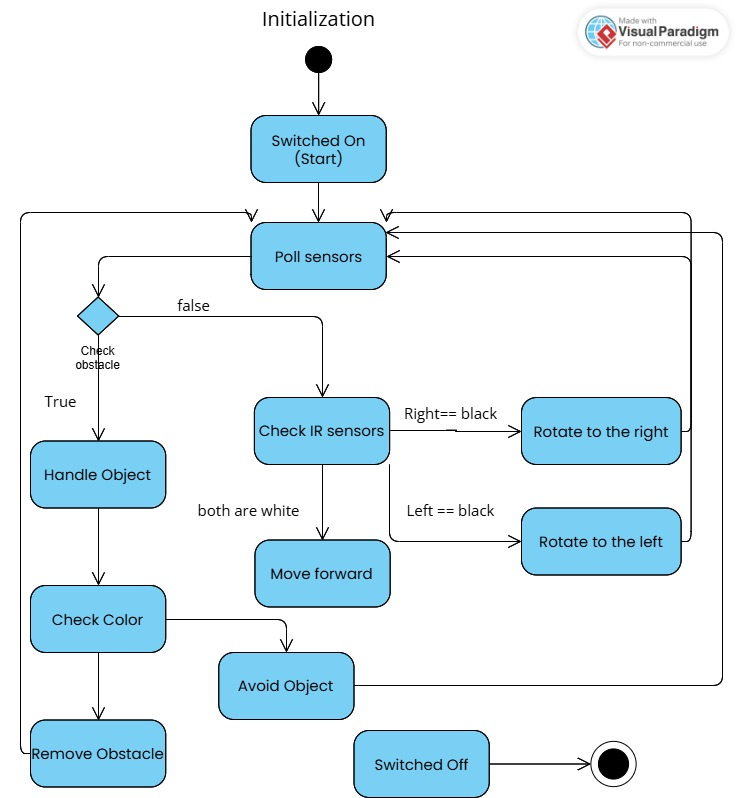
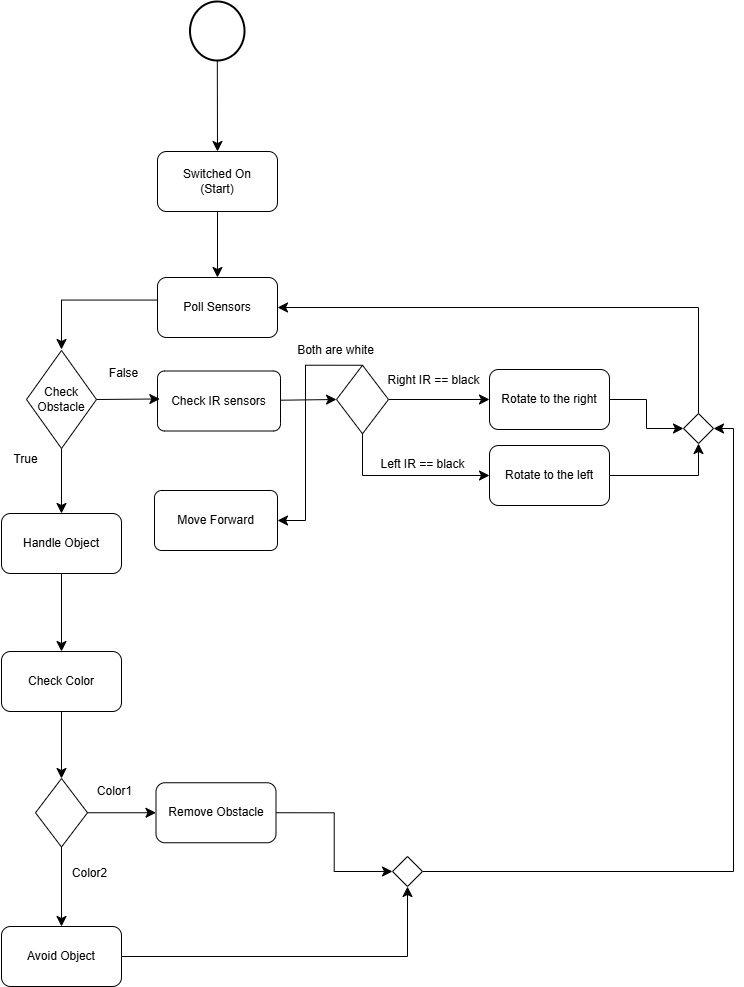
Fixed the Activity Diagram and added the HTML code for it
Addded decision nodes when needed and merge nodes. checked the logic and ease of diagram comprehension

diff --git a/SysML Diagrams/Code/Activity Diagram.drawio.html b/SysML Diagrams/Code/Activity Diagram.drawio.html
@@ -1,0 +1,12 @@
+<!--[if IE]><meta http-equiv="X-UA-Compatible" content="IE=5,IE=9" ><![endif]-->
+<!DOCTYPE html>
+<html>
+<head>
+<title>Activity Diagram.drawio (2).html</title>
+<meta charset="utf-8"/>
+</head>
+<body>
+<div class="mxgraph" style="max-width:100%;border:1px solid transparent;" data-mxgraph="{&quot;highlight&quot;:&quot;#0000ff&quot;,&quot;nav&quot;:true,&quot;resize&quot;:true,&quot;xml&quot;:&quot;&lt;mxfile host=\&quot;app.diagrams.net\&quot; agent=\&quot;Mozilla/5.0 (Windows NT 10.0; Win64; x64) AppleWebKit/537.36 (KHTML, like Gecko) Chrome/135.0.0.0 Safari/537.36\&quot; version=\&quot;26.2.14\&quot;&gt;&lt;diagram id=\&quot;Lv8YVn-NmGNcI8yFGcv0\&quot; name=\&quot;Page-2\&quot;&gt;&lt;mxGraphModel dx=\&quot;2081\&quot; dy=\&quot;1379\&quot; grid=\&quot;0\&quot; gridSize=\&quot;10\&quot; guides=\&quot;1\&quot; tooltips=\&quot;1\&quot; connect=\&quot;1\&quot; arrows=\&quot;1\&quot; fold=\&quot;1\&quot; page=\&quot;0\&quot; pageScale=\&quot;1\&quot; pageWidth=\&quot;850\&quot; pageHeight=\&quot;1100\&quot; math=\&quot;0\&quot; shadow=\&quot;0\&quot;&gt;&lt;root&gt;&lt;mxCell id=\&quot;0\&quot;/&gt;&lt;mxCell id=\&quot;1\&quot; parent=\&quot;0\&quot;/&gt;&lt;mxCell id=\&quot;UHTprHEIaRCcF_CRAUyR-3\&quot; style=\&quot;edgeStyle=none;curved=1;rounded=0;orthogonalLoop=1;jettySize=auto;html=1;entryX=0.5;entryY=0;entryDx=0;entryDy=0;fontSize=12;startSize=8;endSize=8;\&quot; parent=\&quot;1\&quot; source=\&quot;UHTprHEIaRCcF_CRAUyR-1\&quot; target=\&quot;UHTprHEIaRCcF_CRAUyR-2\&quot; edge=\&quot;1\&quot;&gt;&lt;mxGeometry relative=\&quot;1\&quot; as=\&quot;geometry\&quot;/&gt;&lt;/mxCell&gt;&lt;mxCell id=\&quot;UHTprHEIaRCcF_CRAUyR-1\&quot; value=\&quot;\&quot; style=\&quot;strokeWidth=2;html=1;shape=mxgraph.flowchart.start_2;whiteSpace=wrap;\&quot; parent=\&quot;1\&quot; vertex=\&quot;1\&quot;&gt;&lt;mxGeometry x=\&quot;200.5\&quot; y=\&quot;-275\&quot; width=\&quot;54.5\&quot; height=\&quot;59\&quot; as=\&quot;geometry\&quot;/&gt;&lt;/mxCell&gt;&lt;mxCell id=\&quot;UHTprHEIaRCcF_CRAUyR-6\&quot; style=\&quot;edgeStyle=none;curved=1;rounded=0;orthogonalLoop=1;jettySize=auto;html=1;entryX=0.5;entryY=0;entryDx=0;entryDy=0;fontSize=12;startSize=8;endSize=8;\&quot; parent=\&quot;1\&quot; source=\&quot;UHTprHEIaRCcF_CRAUyR-2\&quot; target=\&quot;UHTprHEIaRCcF_CRAUyR-5\&quot; edge=\&quot;1\&quot;&gt;&lt;mxGeometry relative=\&quot;1\&quot; as=\&quot;geometry\&quot;/&gt;&lt;/mxCell&gt;&lt;mxCell id=\&quot;UHTprHEIaRCcF_CRAUyR-2\&quot; value=\&quot;Switched On&amp;lt;br&amp;gt;(Start)\&quot; style=\&quot;rounded=1;whiteSpace=wrap;html=1;\&quot; parent=\&quot;1\&quot; vertex=\&quot;1\&quot;&gt;&lt;mxGeometry x=\&quot;168\&quot; y=\&quot;-125\&quot; width=\&quot;120\&quot; height=\&quot;60\&quot; as=\&quot;geometry\&quot;/&gt;&lt;/mxCell&gt;&lt;mxCell id=\&quot;UHTprHEIaRCcF_CRAUyR-5\&quot; value=\&quot;Poll Sensors\&quot; style=\&quot;rounded=1;whiteSpace=wrap;html=1;\&quot; parent=\&quot;1\&quot; vertex=\&quot;1\&quot;&gt;&lt;mxGeometry x=\&quot;168\&quot; y=\&quot;1\&quot; width=\&quot;120\&quot; height=\&quot;60\&quot; as=\&quot;geometry\&quot;/&gt;&lt;/mxCell&gt;&lt;mxCell id=\&quot;UHTprHEIaRCcF_CRAUyR-25\&quot; style=\&quot;edgeStyle=none;curved=1;rounded=0;orthogonalLoop=1;jettySize=auto;html=1;exitX=0.5;exitY=1;exitDx=0;exitDy=0;fontSize=12;startSize=8;endSize=8;\&quot; parent=\&quot;1\&quot; source=\&quot;UHTprHEIaRCcF_CRAUyR-28\&quot; edge=\&quot;1\&quot;&gt;&lt;mxGeometry relative=\&quot;1\&quot; as=\&quot;geometry\&quot;&gt;&lt;mxPoint x=\&quot;72.23809523809518\&quot; y=\&quot;282.95238095238096\&quot; as=\&quot;targetPoint\&quot;/&gt;&lt;/mxGeometry&gt;&lt;/mxCell&gt;&lt;mxCell id=\&quot;UHTprHEIaRCcF_CRAUyR-8\&quot; value=\&quot;Check Obstacle\&quot; style=\&quot;rhombus;whiteSpace=wrap;html=1;\&quot; parent=\&quot;1\&quot; vertex=\&quot;1\&quot;&gt;&lt;mxGeometry x=\&quot;37\&quot; y=\&quot;74\&quot; width=\&quot;70\&quot; height=\&quot;98\&quot; as=\&quot;geometry\&quot;/&gt;&lt;/mxCell&gt;&lt;mxCell id=\&quot;UHTprHEIaRCcF_CRAUyR-21\&quot; value=\&quot;\&quot; style=\&quot;edgeStyle=segmentEdgeStyle;endArrow=classic;html=1;curved=0;rounded=0;endSize=8;startSize=8;fontSize=12;exitX=0.004;exitY=0.376;exitDx=0;exitDy=0;exitPerimeter=0;\&quot; parent=\&quot;1\&quot; source=\&quot;UHTprHEIaRCcF_CRAUyR-5\&quot; edge=\&quot;1\&quot;&gt;&lt;mxGeometry width=\&quot;50\&quot; height=\&quot;50\&quot; relative=\&quot;1\&quot; as=\&quot;geometry\&quot;&gt;&lt;mxPoint x=\&quot;122\&quot; y=\&quot;23\&quot; as=\&quot;sourcePoint\&quot;/&gt;&lt;mxPoint x=\&quot;72\&quot; y=\&quot;73\&quot; as=\&quot;targetPoint\&quot;/&gt;&lt;/mxGeometry&gt;&lt;/mxCell&gt;&lt;mxCell id=\&quot;UHTprHEIaRCcF_CRAUyR-26\&quot; value=\&quot;False\&quot; style=\&quot;text;html=1;align=center;verticalAlign=middle;resizable=0;points=[];autosize=1;strokeColor=none;fillColor=none;fontSize=12;\&quot; parent=\&quot;1\&quot; vertex=\&quot;1\&quot;&gt;&lt;mxGeometry x=\&quot;105\&quot; y=\&quot;81\&quot; width=\&quot;57\&quot; height=\&quot;31\&quot; as=\&quot;geometry\&quot;/&gt;&lt;/mxCell&gt;&lt;mxCell id=\&quot;UHTprHEIaRCcF_CRAUyR-27\&quot; value=\&quot;True\&quot; style=\&quot;text;html=1;align=center;verticalAlign=middle;resizable=0;points=[];autosize=1;strokeColor=none;fillColor=none;fontSize=12;\&quot; parent=\&quot;1\&quot; vertex=\&quot;1\&quot;&gt;&lt;mxGeometry x=\&quot;11\&quot; y=\&quot;167\&quot; width=\&quot;50\&quot; height=\&quot;31\&quot; as=\&quot;geometry\&quot;/&gt;&lt;/mxCell&gt;&lt;mxCell id=\&quot;UHTprHEIaRCcF_CRAUyR-40\&quot; style=\&quot;edgeStyle=none;curved=1;rounded=0;orthogonalLoop=1;jettySize=auto;html=1;entryX=0;entryY=0.5;entryDx=0;entryDy=0;fontSize=12;startSize=8;endSize=8;\&quot; parent=\&quot;1\&quot; source=\&quot;UHTprHEIaRCcF_CRAUyR-29\&quot; target=\&quot;UHTprHEIaRCcF_CRAUyR-38\&quot; edge=\&quot;1\&quot;&gt;&lt;mxGeometry relative=\&quot;1\&quot; as=\&quot;geometry\&quot;/&gt;&lt;/mxCell&gt;&lt;mxCell id=\&quot;UHTprHEIaRCcF_CRAUyR-29\&quot; value=\&quot;Check IR sensors\&quot; style=\&quot;rounded=1;whiteSpace=wrap;html=1;arcSize=12;movable=1;resizable=1;rotatable=1;deletable=1;editable=1;locked=0;connectable=1;\&quot; parent=\&quot;1\&quot; vertex=\&quot;1\&quot;&gt;&lt;mxGeometry x=\&quot;168\&quot; y=\&quot;94.5\&quot; width=\&quot;123\&quot; height=\&quot;60\&quot; as=\&quot;geometry\&quot;/&gt;&lt;/mxCell&gt;&lt;mxCell id=\&quot;UHTprHEIaRCcF_CRAUyR-35\&quot; style=\&quot;edgeStyle=none;curved=1;rounded=0;orthogonalLoop=1;jettySize=auto;html=1;exitX=1;exitY=0.5;exitDx=0;exitDy=0;entryX=0.019;entryY=0.466;entryDx=0;entryDy=0;entryPerimeter=0;fontSize=12;startSize=8;endSize=8;\&quot; parent=\&quot;1\&quot; source=\&quot;UHTprHEIaRCcF_CRAUyR-8\&quot; target=\&quot;UHTprHEIaRCcF_CRAUyR-29\&quot; edge=\&quot;1\&quot;&gt;&lt;mxGeometry relative=\&quot;1\&quot; as=\&quot;geometry\&quot;/&gt;&lt;/mxCell&gt;&lt;mxCell id=\&quot;UHTprHEIaRCcF_CRAUyR-50\&quot; style=\&quot;edgeStyle=none;curved=1;rounded=0;orthogonalLoop=1;jettySize=auto;html=1;exitX=1;exitY=0.5;exitDx=0;exitDy=0;entryX=0;entryY=0.5;entryDx=0;entryDy=0;fontSize=12;startSize=8;endSize=8;\&quot; parent=\&quot;1\&quot; source=\&quot;UHTprHEIaRCcF_CRAUyR-38\&quot; target=\&quot;UHTprHEIaRCcF_CRAUyR-44\&quot; edge=\&quot;1\&quot;&gt;&lt;mxGeometry relative=\&quot;1\&quot; as=\&quot;geometry\&quot;/&gt;&lt;/mxCell&gt;&lt;mxCell id=\&quot;UHTprHEIaRCcF_CRAUyR-52\&quot; style=\&quot;edgeStyle=orthogonalEdgeStyle;rounded=0;orthogonalLoop=1;jettySize=auto;html=1;exitX=0.5;exitY=1;exitDx=0;exitDy=0;fontSize=12;startSize=8;endSize=8;entryX=0;entryY=0.5;entryDx=0;entryDy=0;\&quot; parent=\&quot;1\&quot; source=\&quot;UHTprHEIaRCcF_CRAUyR-38\&quot; target=\&quot;UHTprHEIaRCcF_CRAUyR-45\&quot; edge=\&quot;1\&quot;&gt;&lt;mxGeometry relative=\&quot;1\&quot; as=\&quot;geometry\&quot;&gt;&lt;mxPoint x=\&quot;373\&quot; y=\&quot;233.28571428571422\&quot; as=\&quot;targetPoint\&quot;/&gt;&lt;/mxGeometry&gt;&lt;/mxCell&gt;&lt;mxCell id=\&quot;UHTprHEIaRCcF_CRAUyR-62\&quot; style=\&quot;edgeStyle=orthogonalEdgeStyle;rounded=0;orthogonalLoop=1;jettySize=auto;html=1;fontSize=12;startSize=8;endSize=8;entryX=1;entryY=0.5;entryDx=0;entryDy=0;\&quot; parent=\&quot;1\&quot; target=\&quot;UHTprHEIaRCcF_CRAUyR-59\&quot; edge=\&quot;1\&quot;&gt;&lt;mxGeometry relative=\&quot;1\&quot; as=\&quot;geometry\&quot;&gt;&lt;mxPoint x=\&quot;313.96\&quot; y=\&quot;209.69\&quot; as=\&quot;targetPoint\&quot;/&gt;&lt;mxPoint x=\&quot;373.00337851929083\&quot; y=\&quot;88.74714285714282\&quot; as=\&quot;sourcePoint\&quot;/&gt;&lt;Array as=\&quot;points\&quot;&gt;&lt;mxPoint x=\&quot;316\&quot; y=\&quot;89\&quot;/&gt;&lt;mxPoint x=\&quot;316\&quot; y=\&quot;244\&quot;/&gt;&lt;/Array&gt;&lt;/mxGeometry&gt;&lt;/mxCell&gt;&lt;mxCell id=\&quot;UHTprHEIaRCcF_CRAUyR-38\&quot; value=\&quot;\&quot; style=\&quot;rhombus;whiteSpace=wrap;html=1;\&quot; parent=\&quot;1\&quot; vertex=\&quot;1\&quot;&gt;&lt;mxGeometry x=\&quot;347\&quot; y=\&quot;88.75\&quot; width=\&quot;52\&quot; height=\&quot;68.5\&quot; as=\&quot;geometry\&quot;/&gt;&lt;/mxCell&gt;&lt;mxCell id=\&quot;UHTprHEIaRCcF_CRAUyR-41\&quot; value=\&quot;Right IR == black\&quot; style=\&quot;text;html=1;align=center;verticalAlign=middle;resizable=0;points=[];autosize=1;strokeColor=none;fillColor=none;fontSize=12;\&quot; parent=\&quot;1\&quot; vertex=\&quot;1\&quot;&gt;&lt;mxGeometry x=\&quot;373\&quot; y=\&quot;88.75\&quot; width=\&quot;141\&quot; height=\&quot;31\&quot; as=\&quot;geometry\&quot;/&gt;&lt;/mxCell&gt;&lt;mxCell id=\&quot;UHTprHEIaRCcF_CRAUyR-91\&quot; style=\&quot;edgeStyle=orthogonalEdgeStyle;rounded=0;orthogonalLoop=1;jettySize=auto;html=1;exitX=1;exitY=0.5;exitDx=0;exitDy=0;fontSize=12;startSize=8;endSize=8;\&quot; parent=\&quot;1\&quot; source=\&quot;UHTprHEIaRCcF_CRAUyR-44\&quot; target=\&quot;UHTprHEIaRCcF_CRAUyR-89\&quot; edge=\&quot;1\&quot;&gt;&lt;mxGeometry relative=\&quot;1\&quot; as=\&quot;geometry\&quot;/&gt;&lt;/mxCell&gt;&lt;mxCell id=\&quot;UHTprHEIaRCcF_CRAUyR-44\&quot; value=\&quot;Rotate to the right\&quot; style=\&quot;rounded=1;whiteSpace=wrap;html=1;\&quot; parent=\&quot;1\&quot; vertex=\&quot;1\&quot;&gt;&lt;mxGeometry x=\&quot;500\&quot; y=\&quot;93\&quot; width=\&quot;120\&quot; height=\&quot;60\&quot; as=\&quot;geometry\&quot;/&gt;&lt;/mxCell&gt;&lt;mxCell id=\&quot;UHTprHEIaRCcF_CRAUyR-90\&quot; style=\&quot;edgeStyle=orthogonalEdgeStyle;rounded=0;orthogonalLoop=1;jettySize=auto;html=1;exitX=1;exitY=0.5;exitDx=0;exitDy=0;entryX=0.5;entryY=1;entryDx=0;entryDy=0;fontSize=12;startSize=8;endSize=8;\&quot; parent=\&quot;1\&quot; source=\&quot;UHTprHEIaRCcF_CRAUyR-45\&quot; target=\&quot;UHTprHEIaRCcF_CRAUyR-89\&quot; edge=\&quot;1\&quot;&gt;&lt;mxGeometry relative=\&quot;1\&quot; as=\&quot;geometry\&quot;/&gt;&lt;/mxCell&gt;&lt;mxCell id=\&quot;UHTprHEIaRCcF_CRAUyR-45\&quot; value=\&quot;Rotate to the left\&quot; style=\&quot;rounded=1;whiteSpace=wrap;html=1;\&quot; parent=\&quot;1\&quot; vertex=\&quot;1\&quot;&gt;&lt;mxGeometry x=\&quot;500\&quot; y=\&quot;169\&quot; width=\&quot;120\&quot; height=\&quot;60\&quot; as=\&quot;geometry\&quot;/&gt;&lt;/mxCell&gt;&lt;mxCell id=\&quot;UHTprHEIaRCcF_CRAUyR-46\&quot; style=\&quot;edgeStyle=none;curved=1;rounded=0;orthogonalLoop=1;jettySize=auto;html=1;exitX=0.75;exitY=1;exitDx=0;exitDy=0;fontSize=12;startSize=8;endSize=8;\&quot; parent=\&quot;1\&quot; source=\&quot;UHTprHEIaRCcF_CRAUyR-45\&quot; target=\&quot;UHTprHEIaRCcF_CRAUyR-45\&quot; edge=\&quot;1\&quot;&gt;&lt;mxGeometry relative=\&quot;1\&quot; as=\&quot;geometry\&quot;/&gt;&lt;/mxCell&gt;&lt;mxCell id=\&quot;UHTprHEIaRCcF_CRAUyR-53\&quot; value=\&quot;Left IR == black\&quot; style=\&quot;text;html=1;align=center;verticalAlign=middle;resizable=0;points=[];autosize=1;strokeColor=none;fillColor=none;fontSize=12;\&quot; parent=\&quot;1\&quot; vertex=\&quot;1\&quot;&gt;&lt;mxGeometry x=\&quot;382\&quot; y=\&quot;175\&quot; width=\&quot;102\&quot; height=\&quot;26\&quot; as=\&quot;geometry\&quot;/&gt;&lt;/mxCell&gt;&lt;mxCell id=\&quot;UHTprHEIaRCcF_CRAUyR-59\&quot; value=\&quot;Move Forward\&quot; style=\&quot;rounded=1;whiteSpace=wrap;html=1;arcSize=12;movable=1;resizable=1;rotatable=1;deletable=1;editable=1;locked=0;connectable=1;\&quot; parent=\&quot;1\&quot; vertex=\&quot;1\&quot;&gt;&lt;mxGeometry x=\&quot;165\&quot; y=\&quot;214\&quot; width=\&quot;123\&quot; height=\&quot;60\&quot; as=\&quot;geometry\&quot;/&gt;&lt;/mxCell&gt;&lt;mxCell id=\&quot;UHTprHEIaRCcF_CRAUyR-64\&quot; value=\&quot;Both are white\&quot; style=\&quot;text;html=1;align=center;verticalAlign=middle;resizable=0;points=[];autosize=1;strokeColor=none;fillColor=none;fontSize=12;\&quot; parent=\&quot;1\&quot; vertex=\&quot;1\&quot;&gt;&lt;mxGeometry x=\&quot;298\&quot; y=\&quot;61\&quot; width=\&quot;95\&quot; height=\&quot;26\&quot; as=\&quot;geometry\&quot;/&gt;&lt;/mxCell&gt;&lt;mxCell id=\&quot;UHTprHEIaRCcF_CRAUyR-65\&quot; value=\&quot;\&quot; style=\&quot;edgeStyle=none;curved=1;rounded=0;orthogonalLoop=1;jettySize=auto;html=1;exitX=0.5;exitY=1;exitDx=0;exitDy=0;fontSize=12;startSize=8;endSize=8;\&quot; parent=\&quot;1\&quot; source=\&quot;UHTprHEIaRCcF_CRAUyR-8\&quot; target=\&quot;UHTprHEIaRCcF_CRAUyR-28\&quot; edge=\&quot;1\&quot;&gt;&lt;mxGeometry relative=\&quot;1\&quot; as=\&quot;geometry\&quot;&gt;&lt;mxPoint x=\&quot;72.23809523809518\&quot; y=\&quot;282.95238095238096\&quot; as=\&quot;targetPoint\&quot;/&gt;&lt;mxPoint x=\&quot;72\&quot; y=\&quot;172\&quot; as=\&quot;sourcePoint\&quot;/&gt;&lt;/mxGeometry&gt;&lt;/mxCell&gt;&lt;mxCell id=\&quot;UHTprHEIaRCcF_CRAUyR-67\&quot; value=\&quot;\&quot; style=\&quot;edgeStyle=none;curved=1;rounded=0;orthogonalLoop=1;jettySize=auto;html=1;fontSize=12;startSize=8;endSize=8;\&quot; parent=\&quot;1\&quot; source=\&quot;UHTprHEIaRCcF_CRAUyR-28\&quot; target=\&quot;UHTprHEIaRCcF_CRAUyR-66\&quot; edge=\&quot;1\&quot;&gt;&lt;mxGeometry relative=\&quot;1\&quot; as=\&quot;geometry\&quot;/&gt;&lt;/mxCell&gt;&lt;mxCell id=\&quot;UHTprHEIaRCcF_CRAUyR-28\&quot; value=\&quot;Handle Object\&quot; style=\&quot;rounded=1;whiteSpace=wrap;html=1;\&quot; parent=\&quot;1\&quot; vertex=\&quot;1\&quot;&gt;&lt;mxGeometry x=\&quot;12\&quot; y=\&quot;237\&quot; width=\&quot;120\&quot; height=\&quot;60\&quot; as=\&quot;geometry\&quot;/&gt;&lt;/mxCell&gt;&lt;mxCell id=\&quot;UHTprHEIaRCcF_CRAUyR-72\&quot; style=\&quot;edgeStyle=none;curved=1;rounded=0;orthogonalLoop=1;jettySize=auto;html=1;exitX=0.5;exitY=1;exitDx=0;exitDy=0;entryX=0.5;entryY=0;entryDx=0;entryDy=0;fontSize=12;startSize=8;endSize=8;\&quot; parent=\&quot;1\&quot; source=\&quot;UHTprHEIaRCcF_CRAUyR-66\&quot; target=\&quot;UHTprHEIaRCcF_CRAUyR-70\&quot; edge=\&quot;1\&quot;&gt;&lt;mxGeometry relative=\&quot;1\&quot; as=\&quot;geometry\&quot;/&gt;&lt;/mxCell&gt;&lt;mxCell id=\&quot;UHTprHEIaRCcF_CRAUyR-66\&quot; value=\&quot;Check Color\&quot; style=\&quot;rounded=1;whiteSpace=wrap;html=1;\&quot; parent=\&quot;1\&quot; vertex=\&quot;1\&quot;&gt;&lt;mxGeometry x=\&quot;12\&quot; y=\&quot;375\&quot; width=\&quot;120\&quot; height=\&quot;60\&quot; as=\&quot;geometry\&quot;/&gt;&lt;/mxCell&gt;&lt;mxCell id=\&quot;UHTprHEIaRCcF_CRAUyR-98\&quot; style=\&quot;edgeStyle=none;curved=1;rounded=0;orthogonalLoop=1;jettySize=auto;html=1;entryX=0;entryY=0.5;entryDx=0;entryDy=0;fontSize=12;startSize=8;endSize=8;\&quot; parent=\&quot;1\&quot; source=\&quot;UHTprHEIaRCcF_CRAUyR-70\&quot; target=\&quot;UHTprHEIaRCcF_CRAUyR-97\&quot; edge=\&quot;1\&quot;&gt;&lt;mxGeometry relative=\&quot;1\&quot; as=\&quot;geometry\&quot;/&gt;&lt;/mxCell&gt;&lt;mxCell id=\&quot;UHTprHEIaRCcF_CRAUyR-100\&quot; style=\&quot;edgeStyle=none;curved=1;rounded=0;orthogonalLoop=1;jettySize=auto;html=1;exitX=0.5;exitY=1;exitDx=0;exitDy=0;fontSize=12;startSize=8;endSize=8;\&quot; parent=\&quot;1\&quot; source=\&quot;UHTprHEIaRCcF_CRAUyR-70\&quot; target=\&quot;UHTprHEIaRCcF_CRAUyR-74\&quot; edge=\&quot;1\&quot;&gt;&lt;mxGeometry relative=\&quot;1\&quot; as=\&quot;geometry\&quot;/&gt;&lt;/mxCell&gt;&lt;mxCell id=\&quot;UHTprHEIaRCcF_CRAUyR-70\&quot; value=\&quot;\&quot; style=\&quot;rhombus;whiteSpace=wrap;html=1;\&quot; parent=\&quot;1\&quot; vertex=\&quot;1\&quot;&gt;&lt;mxGeometry x=\&quot;46\&quot; y=\&quot;502\&quot; width=\&quot;52\&quot; height=\&quot;68.5\&quot; as=\&quot;geometry\&quot;/&gt;&lt;/mxCell&gt;&lt;mxCell id=\&quot;UHTprHEIaRCcF_CRAUyR-102\&quot; style=\&quot;edgeStyle=orthogonalEdgeStyle;rounded=0;orthogonalLoop=1;jettySize=auto;html=1;exitX=1;exitY=0.5;exitDx=0;exitDy=0;entryX=0.5;entryY=1;entryDx=0;entryDy=0;fontSize=12;startSize=8;endSize=8;\&quot; parent=\&quot;1\&quot; source=\&quot;UHTprHEIaRCcF_CRAUyR-74\&quot; target=\&quot;UHTprHEIaRCcF_CRAUyR-80\&quot; edge=\&quot;1\&quot;&gt;&lt;mxGeometry relative=\&quot;1\&quot; as=\&quot;geometry\&quot;/&gt;&lt;/mxCell&gt;&lt;mxCell id=\&quot;UHTprHEIaRCcF_CRAUyR-74\&quot; value=\&quot;Avoid Object\&quot; style=\&quot;rounded=1;whiteSpace=wrap;html=1;\&quot; parent=\&quot;1\&quot; vertex=\&quot;1\&quot;&gt;&lt;mxGeometry x=\&quot;12\&quot; y=\&quot;650\&quot; width=\&quot;120\&quot; height=\&quot;60\&quot; as=\&quot;geometry\&quot;/&gt;&lt;/mxCell&gt;&lt;mxCell id=\&quot;UHTprHEIaRCcF_CRAUyR-104\&quot; style=\&quot;edgeStyle=orthogonalEdgeStyle;rounded=0;orthogonalLoop=1;jettySize=auto;html=1;exitX=1;exitY=0.5;exitDx=0;exitDy=0;entryX=1;entryY=0.5;entryDx=0;entryDy=0;fontSize=12;startSize=8;endSize=8;\&quot; parent=\&quot;1\&quot; source=\&quot;UHTprHEIaRCcF_CRAUyR-80\&quot; target=\&quot;UHTprHEIaRCcF_CRAUyR-89\&quot; edge=\&quot;1\&quot;&gt;&lt;mxGeometry relative=\&quot;1\&quot; as=\&quot;geometry\&quot;/&gt;&lt;/mxCell&gt;&lt;mxCell id=\&quot;UHTprHEIaRCcF_CRAUyR-80\&quot; value=\&quot;\&quot; style=\&quot;rhombus;\&quot; parent=\&quot;1\&quot; vertex=\&quot;1\&quot;&gt;&lt;mxGeometry x=\&quot;403\&quot; y=\&quot;580\&quot; width=\&quot;30\&quot; height=\&quot;30\&quot; as=\&quot;geometry\&quot;/&gt;&lt;/mxCell&gt;&lt;mxCell id=\&quot;UHTprHEIaRCcF_CRAUyR-105\&quot; style=\&quot;edgeStyle=orthogonalEdgeStyle;rounded=0;orthogonalLoop=1;jettySize=auto;html=1;exitX=0.5;exitY=0;exitDx=0;exitDy=0;entryX=1;entryY=0.5;entryDx=0;entryDy=0;fontSize=12;startSize=8;endSize=8;\&quot; parent=\&quot;1\&quot; source=\&quot;UHTprHEIaRCcF_CRAUyR-89\&quot; target=\&quot;UHTprHEIaRCcF_CRAUyR-5\&quot; edge=\&quot;1\&quot;&gt;&lt;mxGeometry relative=\&quot;1\&quot; as=\&quot;geometry\&quot;/&gt;&lt;/mxCell&gt;&lt;mxCell id=\&quot;UHTprHEIaRCcF_CRAUyR-89\&quot; value=\&quot;\&quot; style=\&quot;rhombus;\&quot; parent=\&quot;1\&quot; vertex=\&quot;1\&quot;&gt;&lt;mxGeometry x=\&quot;694\&quot; y=\&quot;137\&quot; width=\&quot;30\&quot; height=\&quot;30\&quot; as=\&quot;geometry\&quot;/&gt;&lt;/mxCell&gt;&lt;mxCell id=\&quot;UHTprHEIaRCcF_CRAUyR-93\&quot; value=\&quot;Color1\&quot; style=\&quot;text;html=1;align=center;verticalAlign=middle;resizable=0;points=[];autosize=1;strokeColor=none;fillColor=none;fontSize=12;\&quot; parent=\&quot;1\&quot; vertex=\&quot;1\&quot;&gt;&lt;mxGeometry x=\&quot;98\&quot; y=\&quot;502\&quot; width=\&quot;53\&quot; height=\&quot;26\&quot; as=\&quot;geometry\&quot;/&gt;&lt;/mxCell&gt;&lt;mxCell id=\&quot;UHTprHEIaRCcF_CRAUyR-94\&quot; value=\&quot;Color2\&quot; style=\&quot;text;html=1;align=center;verticalAlign=middle;resizable=0;points=[];autosize=1;strokeColor=none;fillColor=none;fontSize=12;\&quot; parent=\&quot;1\&quot; vertex=\&quot;1\&quot;&gt;&lt;mxGeometry x=\&quot;73\&quot; y=\&quot;584\&quot; width=\&quot;53\&quot; height=\&quot;26\&quot; as=\&quot;geometry\&quot;/&gt;&lt;/mxCell&gt;&lt;mxCell id=\&quot;UHTprHEIaRCcF_CRAUyR-103\&quot; style=\&quot;edgeStyle=orthogonalEdgeStyle;rounded=0;orthogonalLoop=1;jettySize=auto;html=1;exitX=1;exitY=0.5;exitDx=0;exitDy=0;entryX=0;entryY=0.5;entryDx=0;entryDy=0;fontSize=12;startSize=8;endSize=8;\&quot; parent=\&quot;1\&quot; source=\&quot;UHTprHEIaRCcF_CRAUyR-97\&quot; target=\&quot;UHTprHEIaRCcF_CRAUyR-80\&quot; edge=\&quot;1\&quot;&gt;&lt;mxGeometry relative=\&quot;1\&quot; as=\&quot;geometry\&quot;/&gt;&lt;/mxCell&gt;&lt;mxCell id=\&quot;UHTprHEIaRCcF_CRAUyR-97\&quot; value=\&quot;Remove Obstacle\&quot; style=\&quot;rounded=1;whiteSpace=wrap;html=1;\&quot; parent=\&quot;1\&quot; vertex=\&quot;1\&quot;&gt;&lt;mxGeometry x=\&quot;166.5\&quot; y=\&quot;506.25\&quot; width=\&quot;120\&quot; height=\&quot;60\&quot; as=\&quot;geometry\&quot;/&gt;&lt;/mxCell&gt;&lt;/root&gt;&lt;/mxGraphModel&gt;&lt;/diagram&gt;&lt;/mxfile&gt;&quot;,&quot;toolbar&quot;:&quot;pages zoom layers lightbox&quot;,&quot;page&quot;:0}"></div>
+<script type="text/javascript" src="https://app.diagrams.net/js/viewer-static.min.js"></script>
+</body>
+</html>
